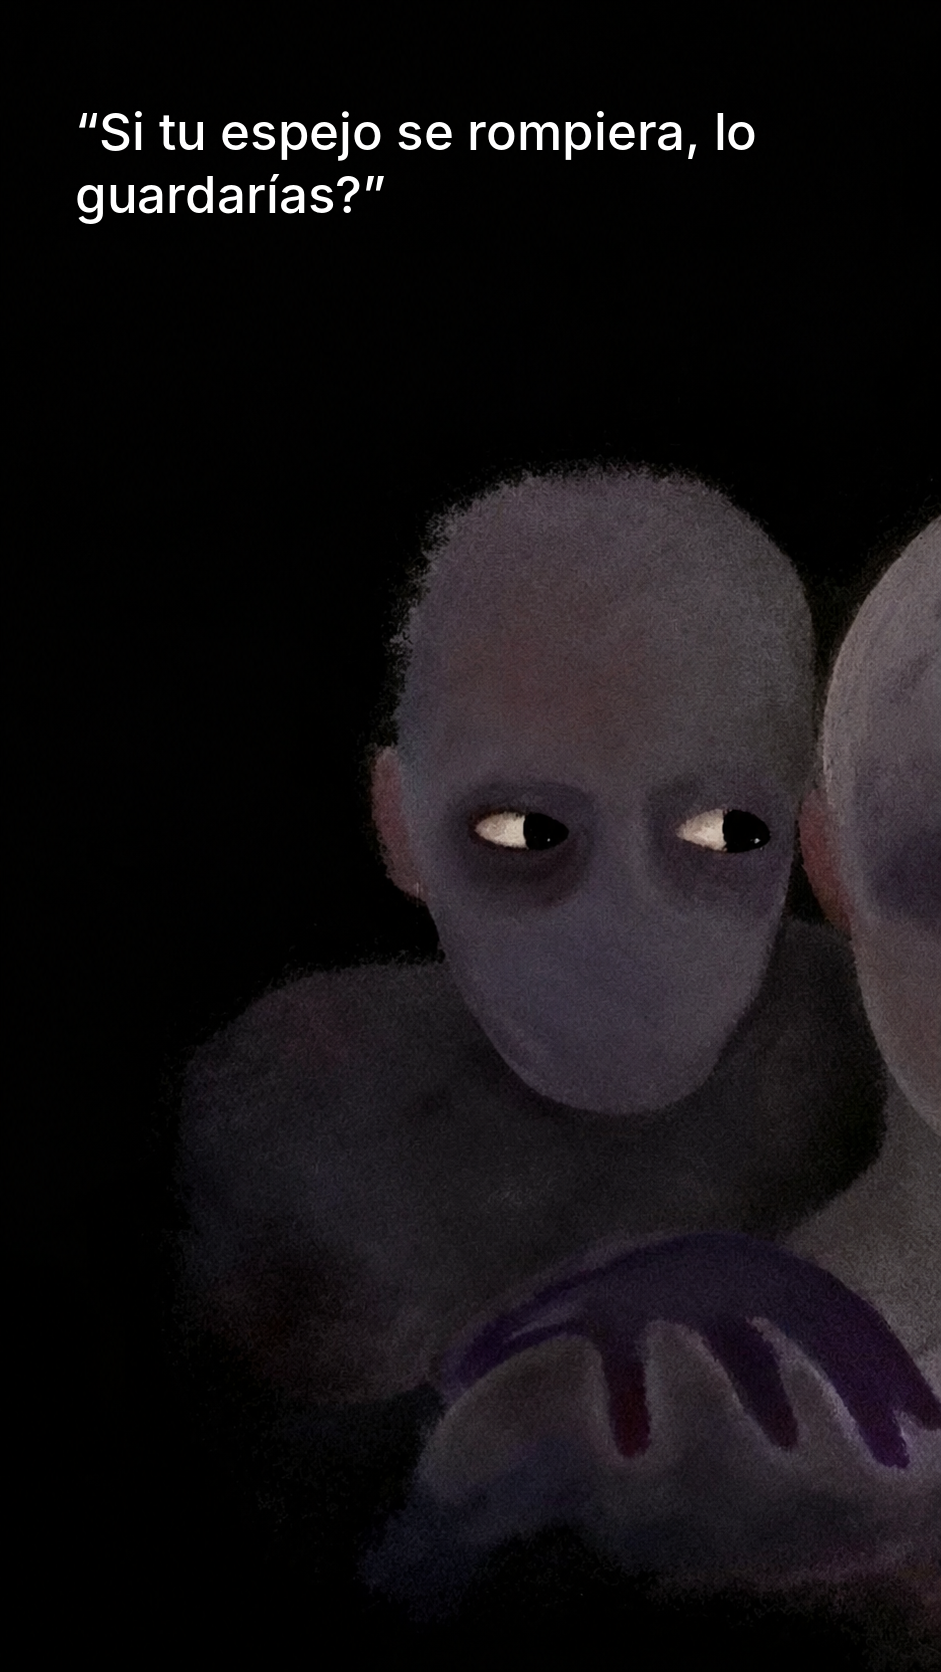
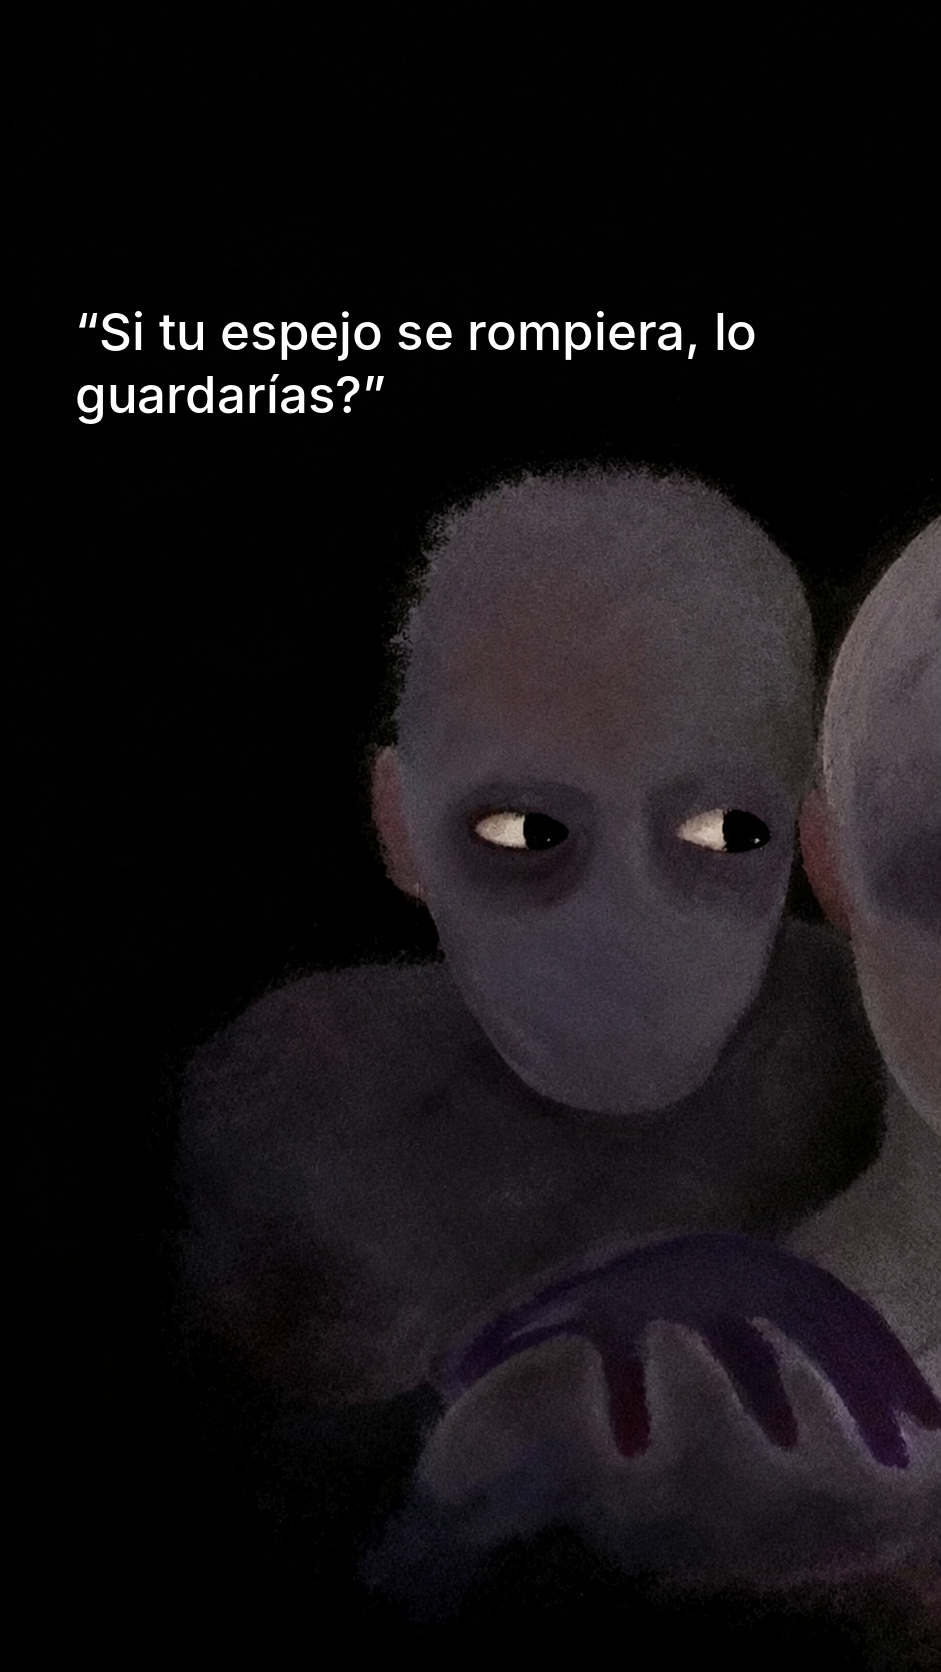
Bajar el texto de los frames de diálogo justo encima de la cabeza; cierre vuelve debajo
Claude-Session: https://claude.ai/code/session_01APr9B7FbDAvfE976rXgtYH

Changed region(s): [[0.0925, 0.0622, 0.8013, 0.1555], [0.0616, 0.1866, 0.8013, 0.2488]]

diff --git a/tools/generar_frames.py b/tools/generar_frames.py
@@ -25,9 +25,13 @@ def wrap(draw, text, font, max_w):
     return lines + [cur]
 
 
-def block(draw, text, size, x, y, max_w, align):
+def block(draw, text, size, x, y, max_w, align, bottom=None):
+    """Si se da `bottom`, el bloque se alinea para terminar en esa y."""
     font = ImageFont.truetype(FONT, size)
-    for line in wrap(draw, f"“{text}”", font, max_w):
+    lines = wrap(draw, f"“{text}”", font, max_w)
+    if bottom is not None:
+        y = bottom - int(size * 1.25) * len(lines)
+    for line in lines:
         w = draw.textlength(line, font=font)
         draw.text((x if align == "left" else x - w, y), line, font=font, fill="white")
         y += int(size * 1.25)
@@ -40,15 +44,14 @@ def frame(who, text, text2, base):
     W, H = img.size
     m = int(W * 0.08)
     if who == "gris":
-        block(d, text, int(W * 0.055), m, int(H * 0.06), W - 2 * m, "left")
+        block(d, text, int(W * 0.055), m, 0, W - 2 * m, "left", bottom=int(H * 0.255))
     elif who == "palido":
-        block(d, text, int(W * 0.048), W - m, int(H * 0.08), int(W * 0.68), "right")
+        block(d, text, int(W * 0.048), W - m, 0, int(W * 0.68), "right", bottom=int(H * 0.265))
     elif not text2:
-        # cierre: explicación centrada, justo encima de la cabeza de los personajes
+        # cierre: explicación centrada, debajo de los dos personajes
         font = ImageFont.truetype(FONT, int(W * 0.043))
-        lines = wrap(d, text, font, int(W * 0.84))
-        y = int(H * 0.185) - int(W * 0.043 * 1.4) * len(lines)
-        for line in lines:
+        y = int(H * 0.76)
+        for line in wrap(d, text, font, int(W * 0.84)):
             d.text(((W - d.textlength(line, font=font)) / 2, y), line, font=font, fill="white")
             y += int(W * 0.043 * 1.4)
     else:
